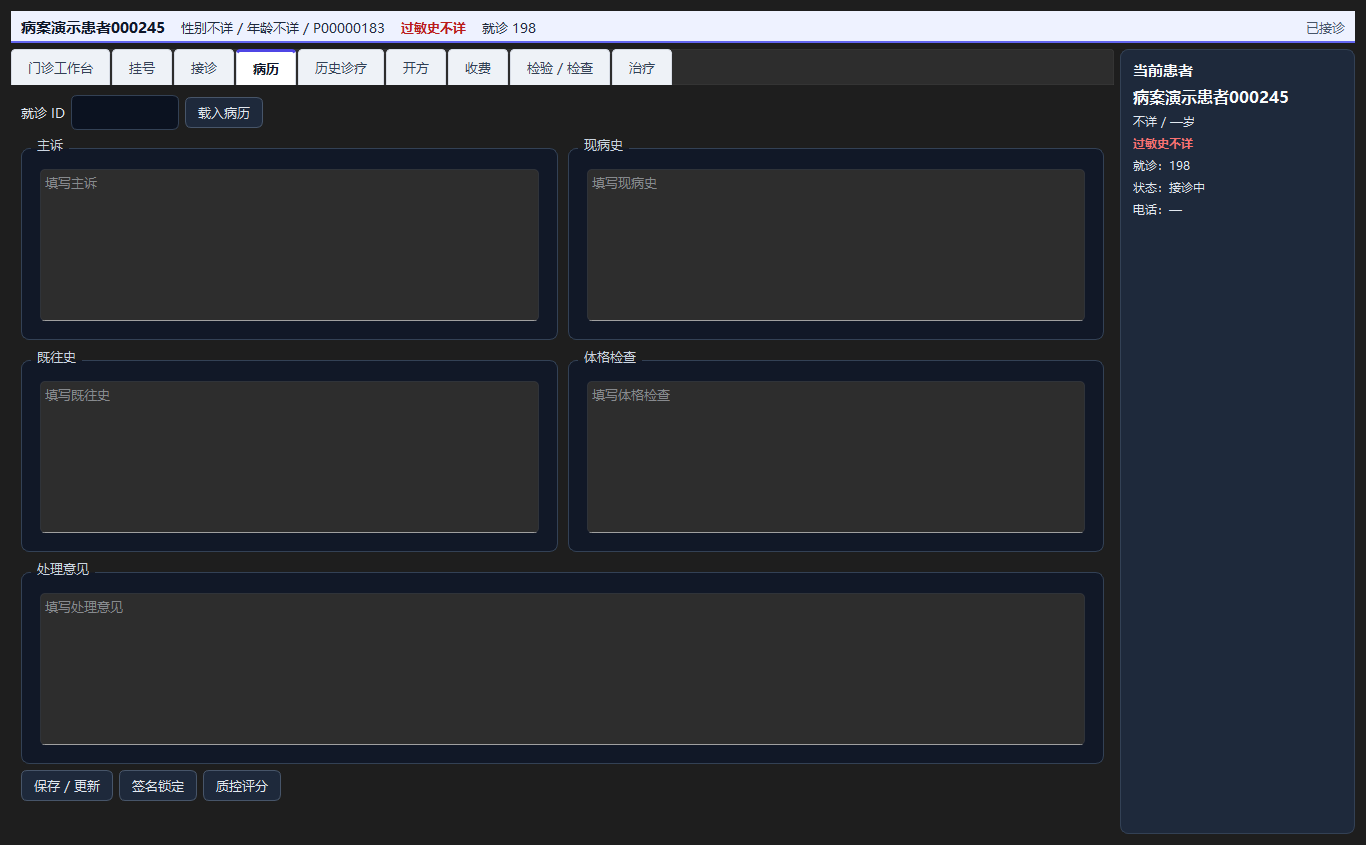
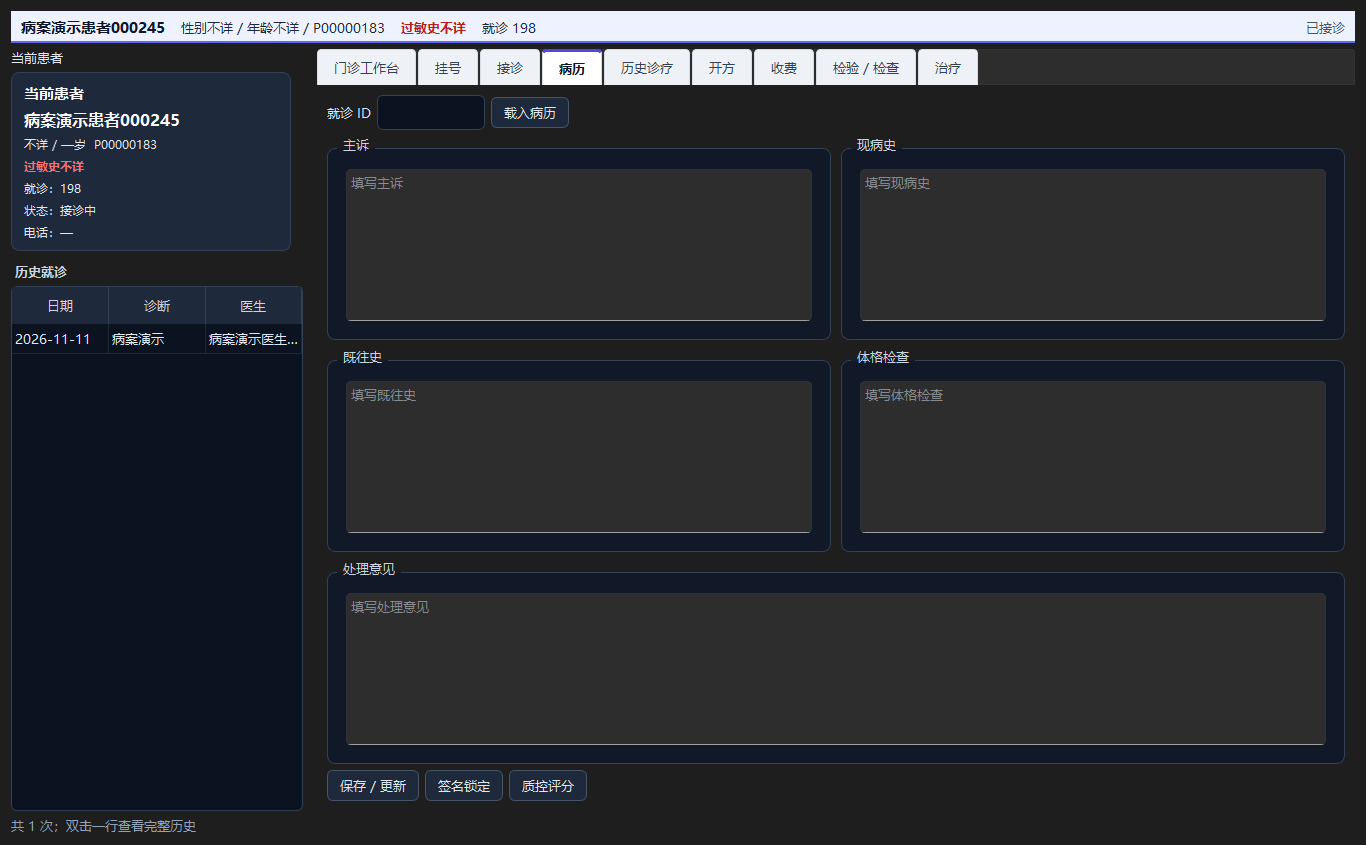
feat: 门诊左侧患者卡+历史就诊 v0.81.0

diff --git a/his_client/ui/doctor.py b/his_client/ui/doctor.py
@@ -9,6 +9,7 @@ from PySide6.QtWidgets import (
     QFormLayout,
     QGridLayout,
     QHeaderView,
+    QSizePolicy,
     QGroupBox,
     QHBoxLayout,
     QInputDialog,
@@ -66,28 +67,52 @@ class DoctorWidget(QWidget):
         layout = QVBoxLayout(self)
         layout.addWidget(self.banner)
         body = QHBoxLayout()
-        body.addWidget(self.tabs, 1)
+        self.side_panel = QWidget()
+        self.side_panel.setFixedWidth(300)
+        side_layout = QVBoxLayout(self.side_panel)
+        side_layout.setContentsMargins(0, 0, 8, 0)
+        side_layout.addWidget(QLabel("当前患者"))
         self.side_info = PatientInfoPanel()
-        self.side_info.setFixedWidth(235)
-        body.addWidget(self.side_info)
+        side_layout.addWidget(self.side_info)
+        history_row = QHBoxLayout()
+        history_title = QLabel("历史就诊")
+        history_title.setStyleSheet("font-weight:bold;color:#cbd5e1;margin-top:6px")
+        history_refresh = QPushButton("刷新")
+        history_refresh.clicked.connect(self._refresh_side_history)
+        history_row.addWidget(history_title)
+        history_row.addStretch(1)
+        history_row.addWidget(history_refresh)
+        side_layout.addLayout(history_row)
+        self.side_history = QTableWidget(0, 3)
+        self.side_history.setHorizontalHeaderLabels(["日期", "诊断", "医生"])
+        self.side_history.horizontalHeader().setSectionResizeMode(QHeaderView.Stretch)
+        self.side_history.verticalHeader().setVisible(False)
+        self.side_history.cellDoubleClicked.connect(self._open_side_history)
+        side_layout.addWidget(self.side_history, 1)
+        self.side_history_msg = QLabel("")
+        self.side_history_msg.setWordWrap(True)
+        self.side_history_msg.setStyleSheet("color:#94a3b8")
+        side_layout.addWidget(self.side_history_msg)
+        body.addWidget(self.side_panel)
+        body.addWidget(self.tabs, 1)
         layout.addLayout(body)
         self._load_diagnoses()
         self._install_shortcuts()
         self.auto_timer = QTimer(self)
         self.auto_timer.timeout.connect(self._auto_refresh)
         self.auto_timer.start(15000)
-        self.side_info.setFixedWidth(0)
-        self.side_info.setVisible(False)
+        self.side_panel.setFixedWidth(0)
+        self.side_panel.setVisible(False)
         self.tabs.currentChanged.connect(self._on_tab_changed)
 
     def _on_tab_changed(self, _index: int) -> None:
-        if hasattr(self, "side_info"):
+        if hasattr(self, "side_panel"):
             if _index == 0:
-                self.side_info.setFixedWidth(0)
-                self.side_info.setVisible(False)
+                self.side_panel.setFixedWidth(0)
+                self.side_panel.setVisible(False)
             else:
-                self.side_info.setFixedWidth(235)
-                self.side_info.setVisible(True)
+                self.side_panel.setFixedWidth(300)
+                self.side_panel.setVisible(True)
         if "开方" in self.tabs.tabText(self.tabs.currentIndex()) and not hasattr(self, "drug_rows"):
             self._load_drugs()
 
@@ -180,6 +205,8 @@ class DoctorWidget(QWidget):
         right_layout = QVBoxLayout(right)
         right_layout.setContentsMargins(0, 0, 0, 0)
         self.patient_info = PatientInfoPanel()
+        self.patient_info.setMaximumWidth(16777215)
+        self.patient_info.setSizePolicy(QSizePolicy.Expanding, QSizePolicy.Preferred)
         right_layout.addWidget(self.patient_info)
         self.wb_patient = QLabel("请选择患者")
         self.wb_patient.setWordWrap(True)
@@ -192,6 +219,7 @@ class DoctorWidget(QWidget):
             ["患者", "项目", "结果", "报告时间", "超时"]
         )
         self.critical_table.setMaximumHeight(90)
+        self.critical_table.horizontalHeader().setSectionResizeMode(QHeaderView.Stretch)
         self.critical_table.cellClicked.connect(self._select_critical)
         critical_layout.addWidget(self.critical_table)
         critical_row = QHBoxLayout()
@@ -235,6 +263,7 @@ class DoctorWidget(QWidget):
             ]
         ):
             button = QPushButton(text)
+            button.setSizePolicy(QSizePolicy.Expanding, QSizePolicy.Fixed)
             button.clicked.connect(handler)
             self.wb_action_buttons[text] = button
             actions.addWidget(button, index // 3, index % 3)
@@ -245,6 +274,7 @@ class DoctorWidget(QWidget):
         right_layout.addWidget(self.wb_summary)
         self.wb_fee_table = QTableWidget(0, 4)
         self.wb_fee_table.setHorizontalHeaderLabels(["项目", "数量", "金额", "状态"])
+        self.wb_fee_table.horizontalHeader().setSectionResizeMode(QHeaderView.Stretch)
         right_layout.addWidget(self.wb_fee_table, 1)
         splitter.addWidget(right)
         splitter.setStretchFactor(0, 0)
@@ -466,6 +496,7 @@ class DoctorWidget(QWidget):
             f"分诊：{item.get('triage_level') or '—'} 级\n"
             f"生命体征：{item.get('vital_summary') or '未测'}",
         )
+        self._load_side_history(item.get("patient_id"))
         gender = {"male": "男", "female": "女"}.get(item.get("gender"), "不详")
         age = item.get("age")
         allergy = item.get("allergy_label") or "不详"
@@ -575,6 +606,7 @@ class DoctorWidget(QWidget):
         self.side_info.set_patient(
             patient, encounter["id"], "已接诊", f"诊断：{self.wb_diagnosis.text().strip() or '—'}"
         )
+        self._load_side_history(item.get("patient_id"))
 
     def _pause_workbench(self) -> None:
         item = getattr(self, "wb_current", None)
@@ -640,6 +672,52 @@ class DoctorWidget(QWidget):
                 self.tabs.setCurrentIndex(index)
                 return
 
+    def _load_side_history(self, patient_id: int | None) -> None:
+        if not patient_id:
+            self.side_history.setRowCount(0)
+            self.side_history_msg.setText("")
+            self._side_history_patient_id = None
+            return
+        if getattr(self, "_side_history_patient_id", None) == patient_id:
+            return
+        self._side_history_patient_id = patient_id
+        try:
+            data = self.api.get_patient_history(patient_id)
+        except ApiError as e:
+            self.side_history.setRowCount(0)
+            self.side_history_msg.setText(f"历史加载失败：{e.detail}")
+            return
+        encounters = data.get("encounters") or []
+        self.side_history_data = encounters
+        self.side_history.setRowCount(len(encounters))
+        for row, encounter in enumerate(encounters):
+            values = [
+                str(encounter.get("visited_at") or "")[:10],
+                f"{encounter.get('diagnosis_code') or ''} {encounter.get('diagnosis') or ''}".strip() or "—",
+                encounter.get("doctor_name") or "—",
+            ]
+            for col, value in enumerate(values):
+                item = QTableWidgetItem(str(value))
+                item.setToolTip(str(value))
+                self.side_history.setItem(row, col, item)
+        self.side_history_msg.setText(
+            f"共 {len(encounters)} 次；双击一行查看完整历史"
+        )
+
+    def _refresh_side_history(self) -> None:
+        self._side_history_patient_id = None
+        patient_id = getattr(self, "side_info", None).patient_id
+        if patient_id:
+            self._load_side_history(patient_id)
+
+    def _open_side_history(self, row: int, _col: int) -> None:
+        if not getattr(self, "side_history_data", None):
+            return
+        self._switch_tab("历史诊疗")
+        patient_id = getattr(self, "side_info", None).patient_id
+        if patient_id:
+            self._load_history(patient_id)
+
     def _set_encounter_everywhere(self, encounter_id: int | None) -> None:
         for attr in (
             "mr_encounter_id",
@@ -673,6 +751,7 @@ class DoctorWidget(QWidget):
                 summary.get("status") or "", summary.get("status") or ""
             ),
         )
+        self._load_side_history(summary.get("patient_id"))
 
     def _wb_record(self) -> None:
         self._switch_tab("病历")

diff --git a/app/version.py b/app/version.py
@@ -1,6 +1,6 @@
 """版本信息：服务端与客户端共用（客户端打包时读取）。"""
 APP_NAME = "HIS 门诊部系统"
-APP_VERSION = "0.80.0"
+APP_VERSION = "0.81.0"
 API_VERSION = "v1"
 # 低于该版本的客户端提示升级
-CLIENT_MIN_VERSION = "0.80.0"
+CLIENT_MIN_VERSION = "0.81.0"

diff --git a/his_client/__init__.py b/his_client/__init__.py
@@ -5,6 +5,6 @@
 - api：REST API 封装
 - ui：登录对话框、主窗口、收费员工作站
 """
-CLIENT_VERSION = "0.80.0"
+CLIENT_VERSION = "0.81.0"
 
 __all__ = ["CLIENT_VERSION"]

diff --git a/docs/全流程测试报告.md b/docs/全流程测试报告.md
@@ -9,7 +9,7 @@
 - 医保/GSP/病案后台页面：**通过，真实表单提交与截图留证**
 - 录像抽帧核验：收费、库房入库、出库、检验报告、最终七窗口均可见，非空白/非日志拼接
 - 结论：**通过（门诊 + 治疗室 + 检验 + 收费/发票/退费 + 盘点 + 医保/GSP/病案后台核心闭环）**
-- 2026-11-10 增补：患者 P0 建档、过敏硬拦截、门诊分诊生命体征/分级、ICD-10 诊断编码、危急值医生确认、GSP 召回批次锁定、高危药品双人核对、治疗室知情同意签名、NFC 就诊卡、院长审批、医保属性入库快照、服务端医保总开关、病案销毁附件/清册、门诊病历/处方笺打印、Code128 条码、辅助检查自动带入、收费/药房扫码定位与状态、药房 OTC/耗材零售；全量 **651 passed**；版本 **0.80.0**；门诊工作站子页固定患者侧卡、病历/开方/挂号分栏。
+- 2026-11-10 增补：患者 P0 建档、过敏硬拦截、门诊分诊生命体征/分级、ICD-10 诊断编码、危急值医生确认、GSP 召回批次锁定、高危药品双人核对、治疗室知情同意签名、NFC 就诊卡、院长审批、医保属性入库快照、服务端医保总开关、病案销毁附件/清册、门诊病历/处方笺打印、Code128 条码、辅助检查自动带入、收费/药房扫码定位与状态、药房 OTC/耗材零售；全量 **651 passed**；版本 **0.81.0**；门诊工作站左侧患者卡 + 历史就诊列表，病历/开方/挂号分栏。
 - 2026-11-10 视频复核：重新录制挂号收费、医生站、护士站、治疗室、药房、库房、病案室、院长审批；旧视频未冒充新流程。
 - 严格说明：UI 录像覆盖 7 个核心角色；盘点、医保、GSP、病案以后台真实页面表单操作 + 截图/打印验证。若要求所有后台页面逐页录屏，当前仍是抽样页面级验证，但已测范围未发现失败。
 

diff --git a/docs/门诊工作站布局参考.md b/docs/门诊工作站布局参考.md
@@ -37,12 +37,19 @@
   - 右：患者信息卡、危急值、诊断/操作、费用
 - 队列状态页签：全部、待接诊、接诊中、已挂起、已收费
 - 患者信息卡独立于导航
-- **病历/开方/挂号/收费/检验/治疗等子页，右侧固定显示当前患者信息卡**
+- **病历/开方/挂号/收费/检验/治疗等子页，左侧固定显示当前患者信息卡**
+- **患者卡下方直接显示该患者历史就诊列表，双击进入完整历史诊疗**
 - 病历页改为 2×2 病历段 + 全宽处理意见
 - 开方页改为左药品目录/右开方与本次处方
 - 挂号页改为左患者查询/右现场挂号
 - 保留接诊互斥、挂起/继续、药物反应
 - 保留开方药品搜索、库存/自费约
+
+### 左侧患者栏的依据
+
+- 会诊/门诊界面常见“左侧患者列表/患者信息，右侧病历/处方”，本次把患者卡与历史就诊一起固定在左栏
+- 历史就诊行显示日期、诊断、医生，双击载入完整历史
+- 左栏宽度 300px，下方历史表占满剩余高度，不再留空
 
 ### 患者信息固定在侧边的依据
 
